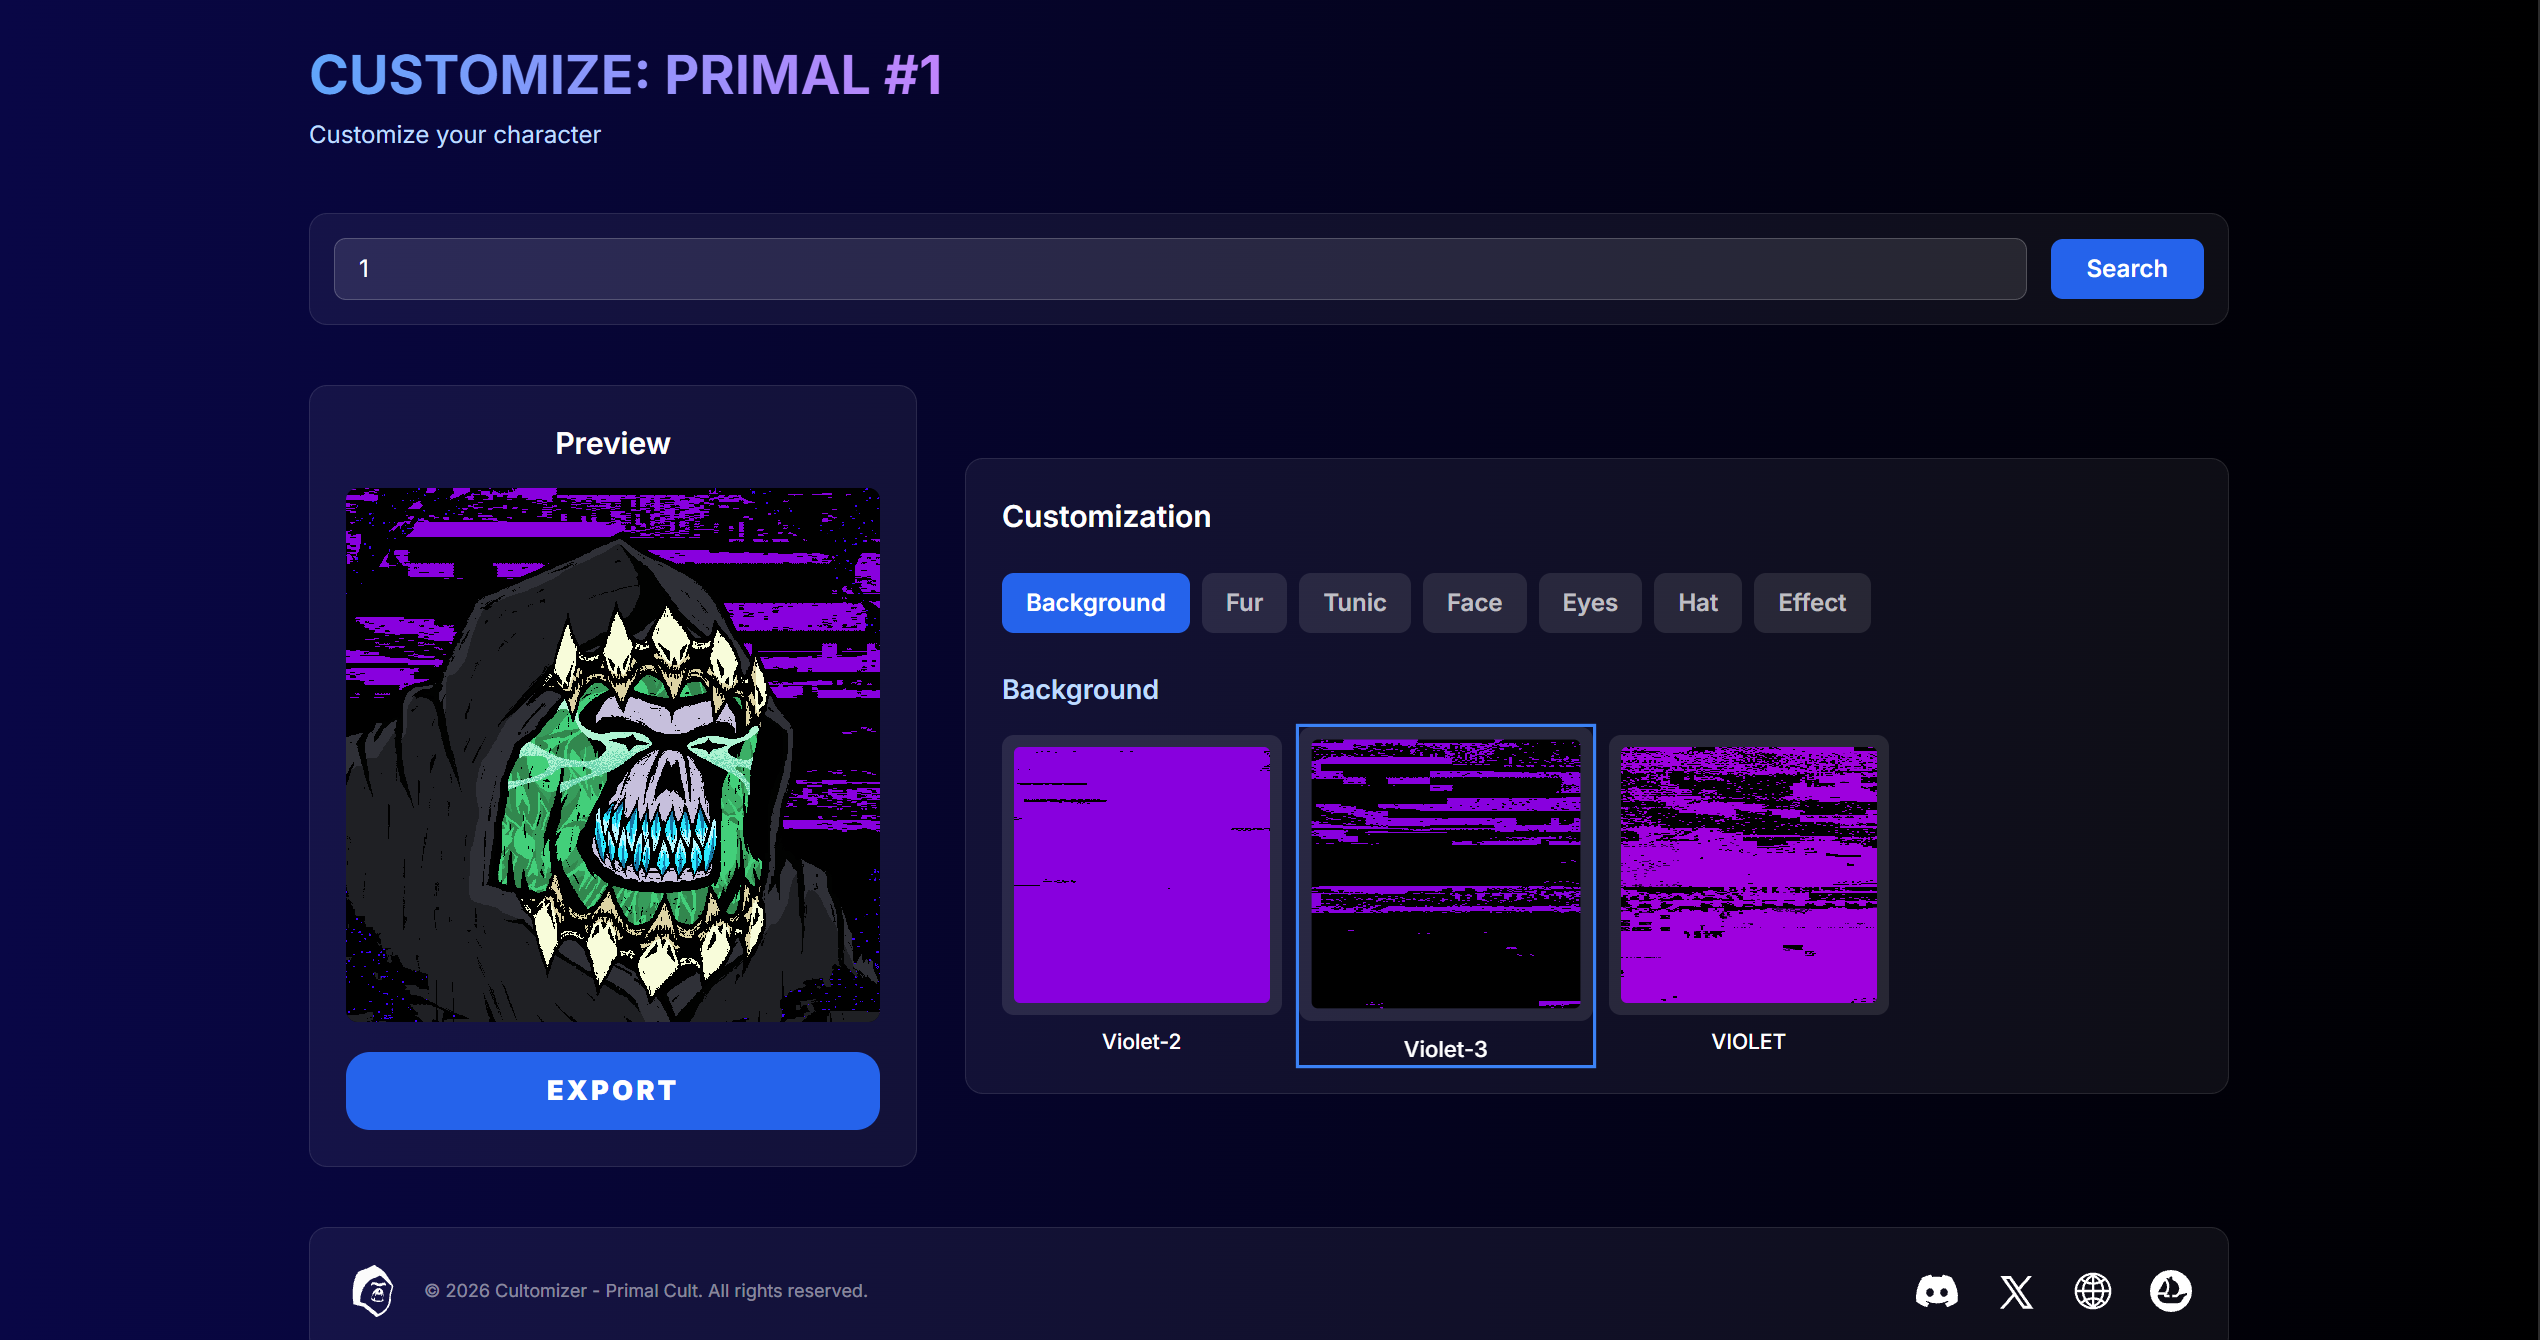
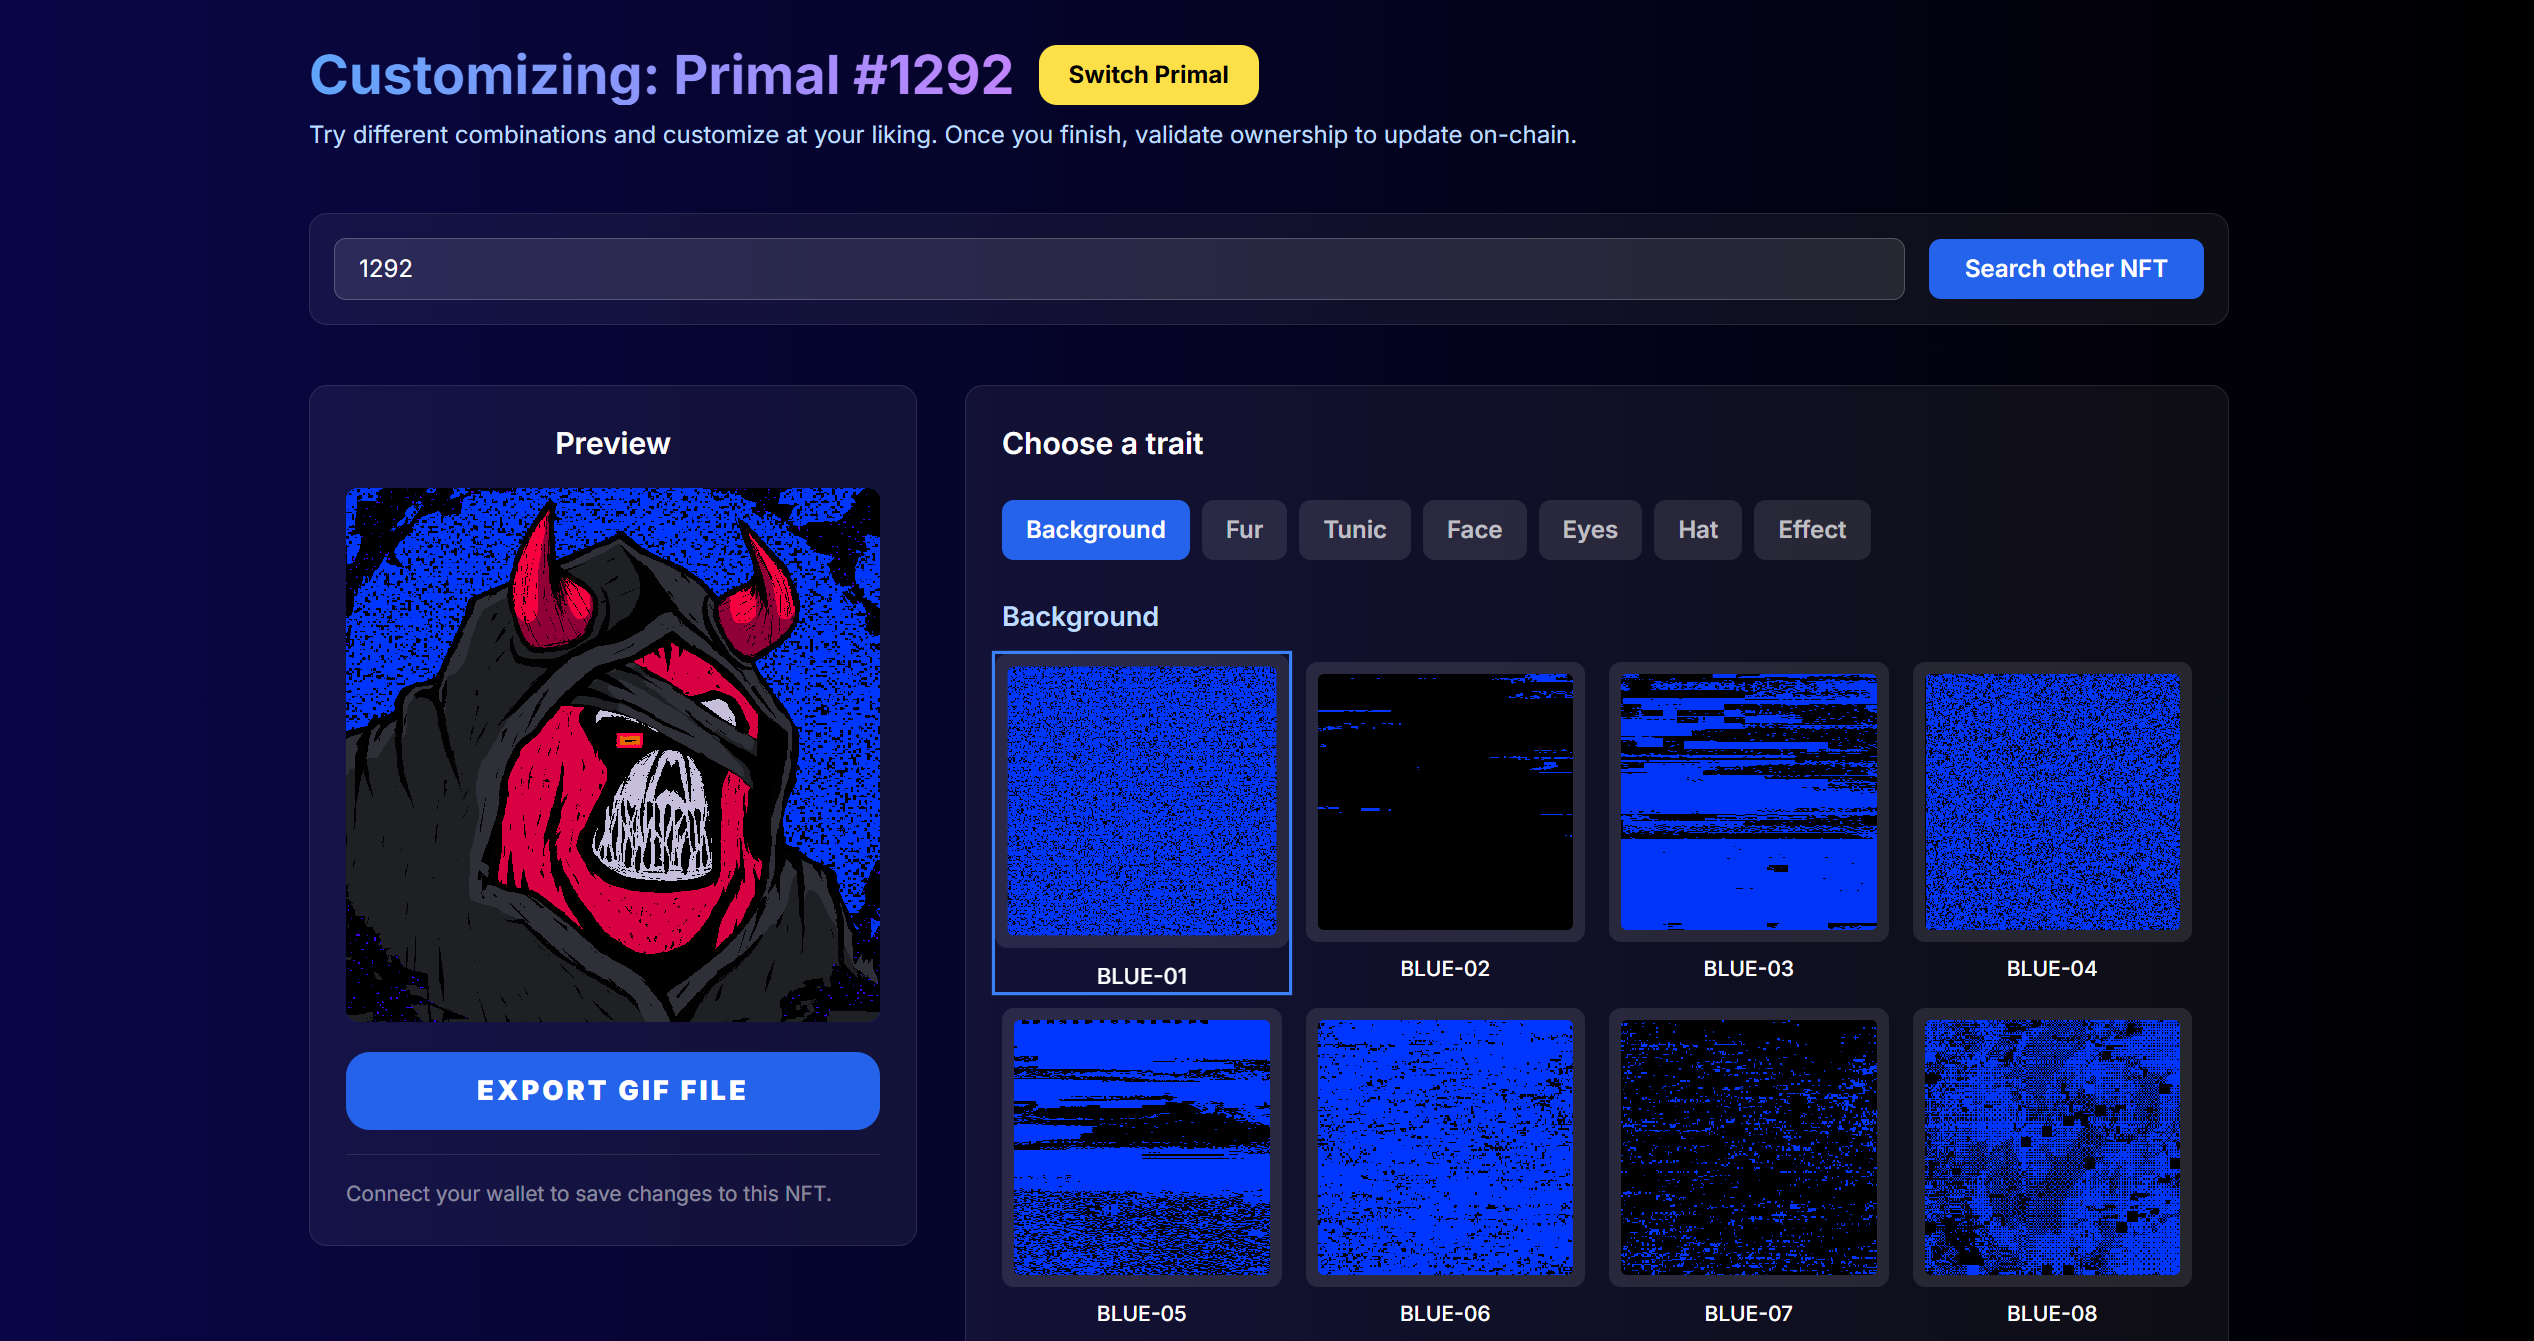
feat: formas en experiencia, iconos en contacto y ajustes de secciones
- experiencia: dos formas ancladas a la linea de tiempo que rotan con el scroll
- contacto: github y linkedin pasan a iconos y se unifica la tipografia de los botones
- header: el peso del enlace activo sale de css por aria-current en vez de animarse
  con gsap, que reflowaba la nav en cada frame de la transicion
- titulos de seccion con el relleno del acento, para que no se pierdan sobre blanco
- sobre mi: se saca el bio viejo comentado y se acota el ancho de lectura
- hero: los botones usan RollText y se quita el script duplicado de --header-h

diff --git a/src/scripts/accent.ts b/src/scripts/accent.ts
@@ -1,5 +1,3 @@
-import gsap from 'gsap';
-
 const raiz = document.documentElement;
 const secciones = [...document.querySelectorAll<HTMLElement>('[data-accent]')];
 
@@ -26,13 +24,6 @@ const marcarEnlace = (seccion: HTMLElement) => {
         if (esActivo && !primera) {
             enlace.dispatchEvent(new CustomEvent('rolltext:play'));
         }
-
-        gsap.to(enlace, {
-            fontWeight: esActivo ? 600 : 400,
-            duration: primera ? 0 : 0.35,
-            ease: 'power2.out',
-            overwrite: true,
-        });
     }
 
     primera = false;
